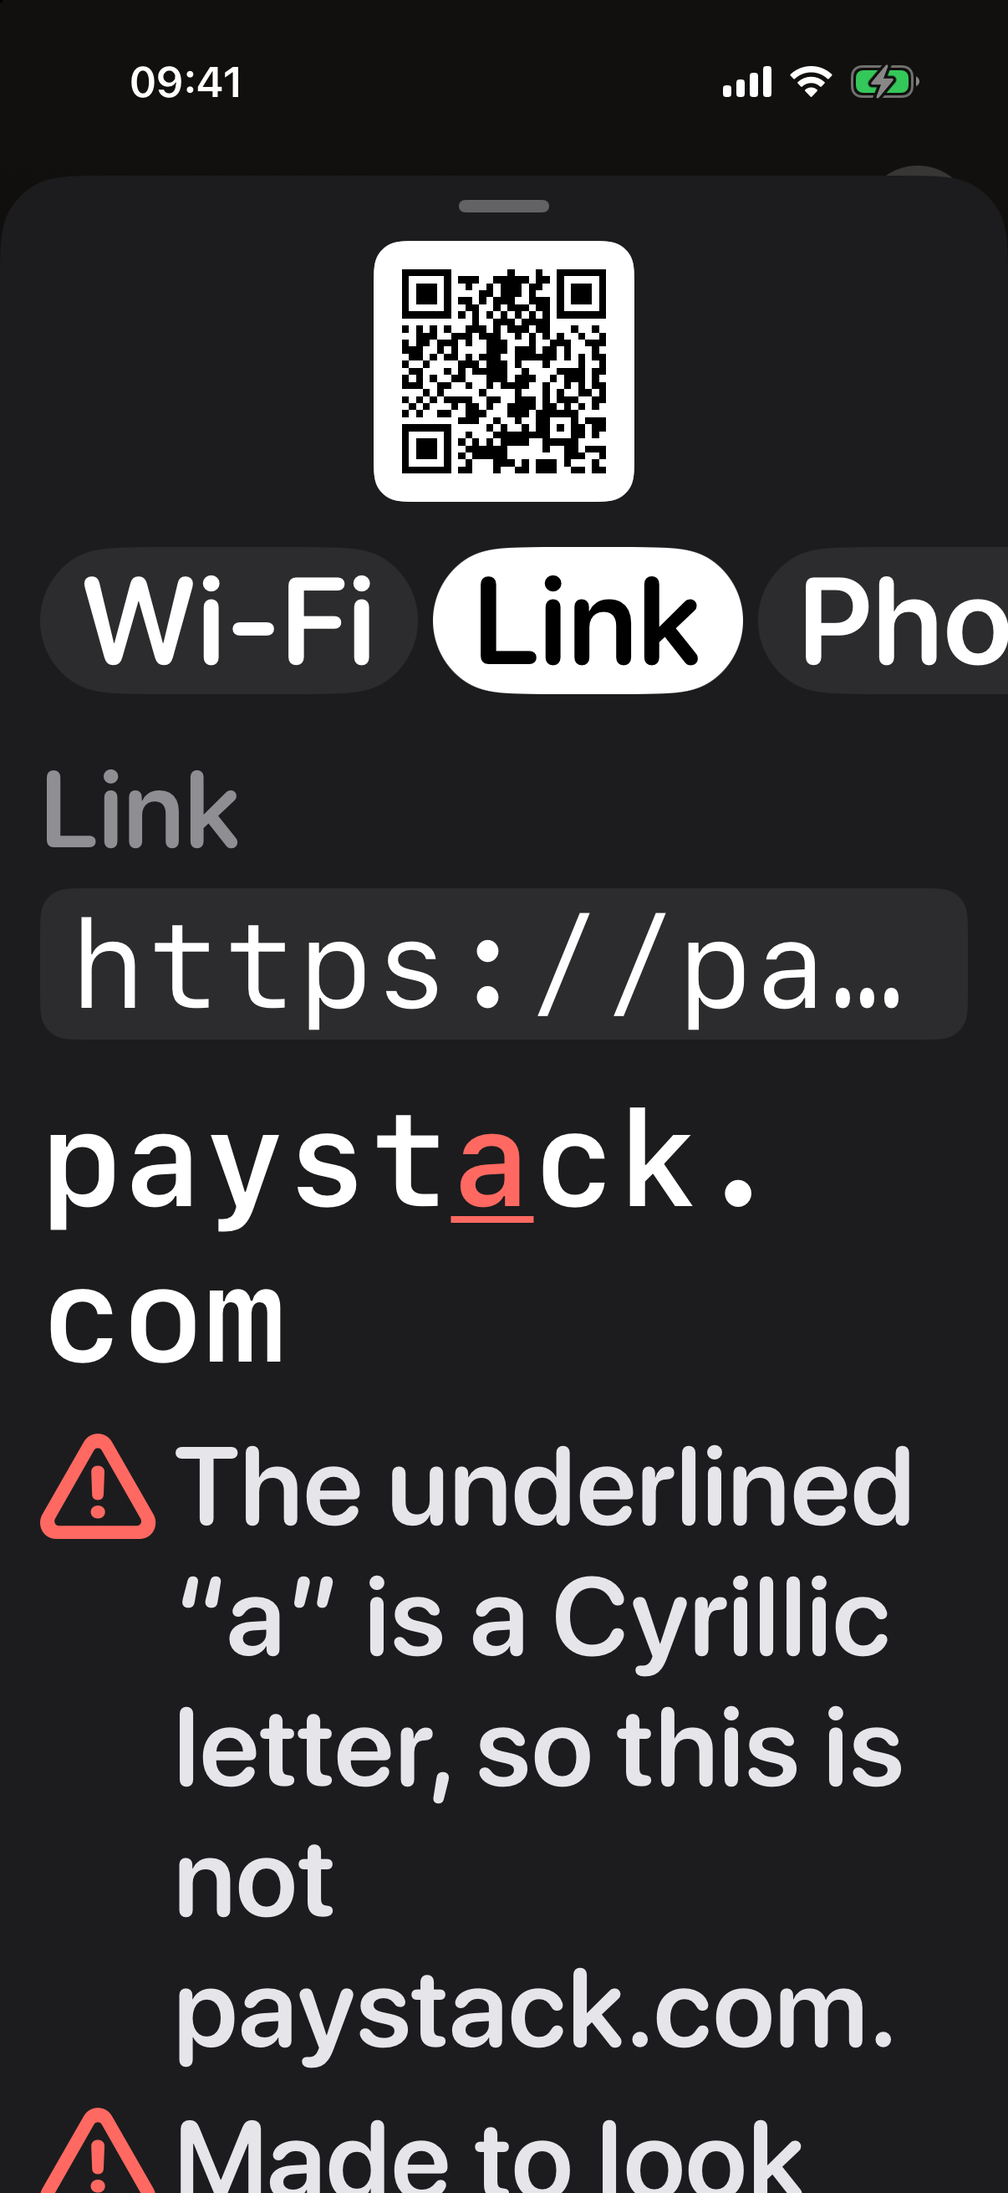
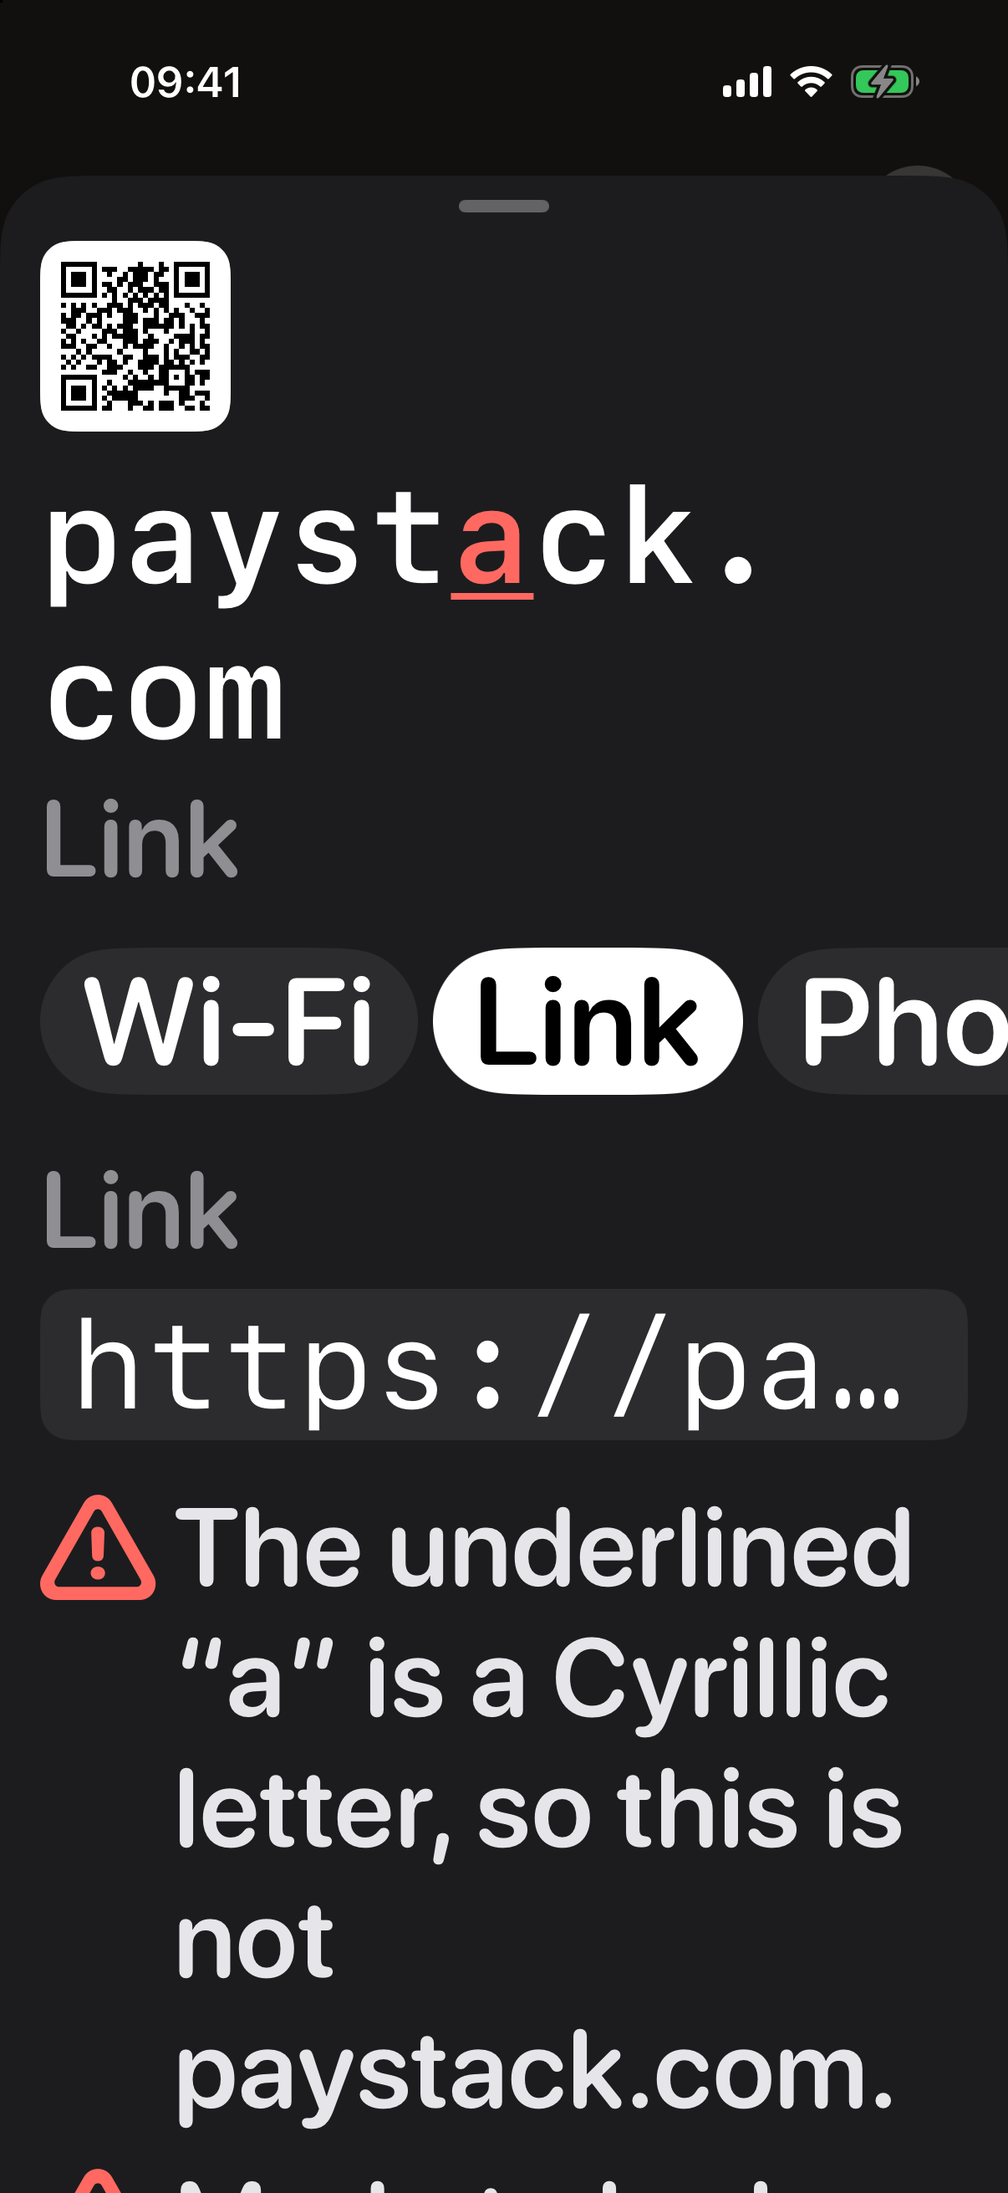
Tidy Make and History, and wrap domains at dots everywhere
History loses the + next to Done. With no codes kept, My codes already
has a Make a code button; once there are some, Make on the scanner is
the way in.

A pass over the Make screens to take out what reads as generic and make
them sit with the scan drawer:

- The Make drawer's header is laid out like a scan's: what you're making
  on the left (the network, the site or "New code") with its kind under
  it, and the live code where a scan has its Share button. It used to be
  a code centred on its own above everything. At the accessibility sizes
  the code goes above the name, as in My codes.
- A risky link's site, with the red underline, is now that header,
  instead of a second copy of the name above the warnings.
- My codes' empty state drops its icon and the step-by-step sentence the
  button already says. It's a heading, one line and Make a code.
- The full-screen code drops "Brightness turned up while this is open";
  the line only speaks after a save now, and keeps its space so the
  buttons don't jump.

Domains wrap after a dot, not mid-word, in the result drawer's title,
History, the photo list, My codes and Make. When one part is longer than
a whole line it still has to break inside, but now without a hyphen that
reads as part of the address ("kolalogis-tics.test"). VoiceOver gets the
plain name. The lookalike underline is unchanged, and a test checks it
survives the breaks.

Screenshots are retaken, with a scanned lookalike added at AX5.

diff --git a/Lensir/Make/MakeDrawer.swift b/Lensir/Make/MakeDrawer.swift
@@ -2,8 +2,9 @@
 //  MakeDrawer.swift
 //  Lensir
 //
-//  Make a code, in the same drawer a scan opens in. The code sits at the
-//  top and redraws as you type. Under it: a chip for each kind, the form
+//  Make a code, in the same drawer a scan opens in. The header is laid out
+//  like a scan's: the name on the left, the code on the right, redrawing
+//  as you type. Under it: a chip for each kind, the form
 //  for that kind, and two buttons, Show code (full screen, bright, to
 //  share or save) and Keep (into My codes). A link you make goes through
 //  the same checks as a link you scan, and a risky one asks before it's
@@ -33,6 +34,7 @@ struct MakeDrawer: View {
     /// Goes up on every keep, for its tick.
     @State private var keepCount = 0
     @AccessibilityFocusState private var previewFocused: Bool
+    @Environment(\.dynamicTypeSize) private var dynamicTypeSize
 
     private var made: Result<String, CodeProblem> { CodeMaker.make(draft) }
     private var payload: String? { try? made.get() }
@@ -47,9 +49,34 @@ struct MakeDrawer: View {
     var body: some View {
         DrawerSurface(drawer: drawer, haptics: haptics, bottomInset: bottomInset, maxHeight: maxHeight,
                       expands: false, onClose: onClose) {
-            CodePreview(image: code, label: previewLabel)
-                .frame(maxWidth: .infinity)
-                .accessibilityFocused($previewFocused)
+            // Laid out like a scan's drawer: what it is on the left, the
+            // code where the scan's Share button sits.
+            // At the accessibility sizes the code goes above the name, so the
+            // name gets the whole width, as in My codes.
+            let layout = dynamicTypeSize.isAccessibilitySize
+                ? AnyLayout(VStackLayout(alignment: .leading, spacing: 10)) : AnyLayout(HStackLayout(alignment: .center, spacing: 12))
+            layout {
+                if dynamicTypeSize.isAccessibilitySize {
+                    CodePreview(image: code, label: previewLabel)
+                        .accessibilityFocused($previewFocused)
+                }
+                VStack(alignment: .leading, spacing: 1) {
+                    headerTitle
+                        .foregroundStyle(.white)
+                        .lineLimit(3)
+                        .fixedSize(horizontal: false, vertical: true)
+                    Text(draft.kind.title)
+                        .font(Typeface.kindLabel)
+                        .foregroundStyle(Palette.secondaryText)
+                }
+                .frame(maxWidth: .infinity, alignment: .leading)
+                // The code's own label says all of this.
+                .accessibilityHidden(true)
+                if !dynamicTypeSize.isAccessibilitySize {
+                    CodePreview(image: code, label: previewLabel)
+                        .accessibilityFocused($previewFocused)
+                }
+            }
         } content: {
             MakeForm(draft: $draft, problem: problem, report: shownReport, canMake: code != nil, isKept: isKept,
                      onShow: { attempt(.show) }, onKeep: { attempt(.keep) })
@@ -76,6 +103,20 @@ struct MakeDrawer: View {
         } message: { _ in
             Text(CodeMaker.safety(for: draft)?.findings.first?.message ?? "")
         }
+    }
+
+    /// What the code will be called once it's kept, as it's typed.
+    private var headerTitle: Text {
+        guard let payload, code != nil else { return Text("New code").font(Typeface.title) }
+        // A link's site, with any lookalike letter underlined in red, as a
+        // scanned one's title is.
+        if let report = shownReport, let title = AddressText.title(report) {
+            return Text(title).font(Typeface.monoTitle).typesettingLanguage(AddressText.noHyphens)
+        }
+        let name = CodeMaker.defaultName(for: draft)
+        return CodeMaker.display(raw: payload).monospaced
+            ? Text(AddressText.breakingAtDots(name)).font(Typeface.monoTitle).typesettingLanguage(AddressText.noHyphens)
+            : Text(name).font(Typeface.title)
     }
 
     private var previewLabel: String {
@@ -147,7 +188,7 @@ struct ShownCode: Identifiable, Equatable {
 struct CodePreview: View {
     var image: CGImage?
     var label: String
-    var side: CGFloat = 104
+    var side: CGFloat = 76
     @ScaledMetric(relativeTo: .title) private var placeholderIcon: CGFloat = 34
 
     var body: some View {
@@ -422,14 +463,9 @@ private struct MakeForm: View {
             if report.isSafe {
                 CheckLine(systemName: "checkmark", color: Palette.safe, text: report.safeSummary, textColor: Palette.checkText)
             } else {
+                // The header above shows the site with the swapped letters
+                // underlined, so "the underlined а" points at something.
                 VStack(alignment: .leading, spacing: 8) {
-                    // The site as it really reads, with the swapped letters
-                    // underlined, so "the underlined а" points at something.
-                    if !report.highlights.isEmpty, let title = AddressText.title(report, breaksAtDots: true) {
-                        Text(title)
-                            .font(Typeface.monoTitle)
-                            .padding(.bottom, 2)
-                    }
                     ForEach(Array(report.findings.enumerated()), id: \.offset) { _, finding in
                         CheckLine(systemName: "exclamationmark.triangle", color: Palette.warning, text: finding.message,
                                   textColor: Palette.warningText)

diff --git a/Lensir/History/HistoryView.swift b/Lensir/History/HistoryView.swift
@@ -40,13 +40,6 @@ struct HistoryView: View {
                         }
                         .accessibilityLabel("Settings")
                     }
-                    ToolbarItem(placement: .topBarTrailing) {
-                        Button(action: onMake) {
-                            Image(systemName: "plus")
-                        }
-                        .accessibilityLabel("Make a code")
-                        .accessibilityIdentifier("history-make")
-                    }
                     ToolbarItem(placement: .confirmationAction) {
                         Button("Done") { dismiss() }
                     }
@@ -171,11 +164,14 @@ struct MadeCodeRow: View {
             .frame(width: min(thumbnail, 72), height: min(thumbnail, 72))
             .accessibilityHidden(true)
             VStack(alignment: .leading, spacing: 2) {
-                Text(code.name)
+                // The breaks are for the eye; VoiceOver gets the plain name.
+                Text(display.monospaced ? AddressText.breakingAtDots(code.name) : code.name)
+                    .accessibilityLabel(code.name)
                     .font(display.monospaced ? Typeface.monoTitle : Typeface.title)
                     .foregroundStyle(.white)
                     .lineLimit(dynamicTypeSize.isAccessibilitySize ? nil : 1)
                     .truncationMode(.middle)
+                    .typesettingLanguage(AddressText.noHyphens)
                 Text(MyCodesLogic.subtitle(raw: code.raw, date: code.date))
                     .font(Typeface.kindLabel)
                     .foregroundStyle(Palette.secondaryText)
@@ -189,23 +185,17 @@ struct MadeCodeRow: View {
     }
 }
 
-/// My codes before there are any: what it's for, and how to make one.
+/// My codes before there are any: what it's for, and the way in.
 struct MyCodesEmpty: View {
     var onMake: () -> Void
-    @ScaledMetric(relativeTo: .title2) private var icon: CGFloat = 26
 
     var body: some View {
-        VStack(alignment: .leading, spacing: 8) {
-            Image(systemName: "qrcode")
-                .font(.system(size: icon, weight: .regular))
-                .foregroundStyle(Palette.secondaryText)
-                .padding(.bottom, 4)
-                .accessibilityHidden(true)
+        VStack(alignment: .leading, spacing: 4) {
             Text("Keep the codes you show often")
                 .font(Typeface.title)
                 .foregroundStyle(.white)
                 .accessibilityAddTraits(.isHeader)
-            Text("Your Wi-Fi for guests, your shop's link, your number. Tap Make on the scanner, fill it in, then Keep. It's ready to show again in one tap.")
+            Text("Your Wi-Fi for guests, your shop's link, your number, one tap away.")
                 .font(Typeface.body)
                 .foregroundStyle(Palette.checkText)
                 .fixedSize(horizontal: false, vertical: true)
@@ -213,7 +203,7 @@ struct MyCodesEmpty: View {
                 Text("Make a code").primaryButtonStyle()
             }
             .buttonStyle(PressableStyle())
-            .padding(.top, 8)
+            .padding(.top, 12)
             .accessibilityIdentifier("my-codes-make")
         }
         .padding(.vertical, 10)
@@ -242,6 +232,7 @@ struct HistoryRow: View {
                     .foregroundStyle(.white)
                     .lineLimit(dynamicTypeSize.isAccessibilitySize ? nil : 1)
                     .truncationMode(.middle)
+                    .typesettingLanguage(AddressText.noHyphens)
                 Text("\(summary.kindLabel) · \(record.date.formatted(date: .omitted, time: .shortened))")
                     .font(Typeface.kindLabel)
                     .foregroundStyle(Palette.secondaryText)

diff --git a/Lensir/Result/AddressText.swift b/Lensir/Result/AddressText.swift
@@ -29,10 +29,10 @@ enum AddressText {
         return text
     }
 
-    /// The site's name for the sheet's title, with the same red underlines.
-    /// `breaksAtDots` lets a long name wrap after a dot rather than be
-    /// hyphenated, which would look like part of the address.
-    static func title(_ report: SafetyReport, breaksAtDots: Bool = false) -> AttributedString? {
+    /// The site's name for a title, with the same red underlines. It wraps
+    /// after a dot rather than mid-word or hyphenated, which would look like
+    /// part of the address: "paystack." then "com", never "pay-" "stack".
+    static func title(_ report: SafetyReport, breaksAtDots: Bool = true) -> AttributedString? {
         guard let address = report.address, address.hasAuthority else { return nil }
         let offset = address.shortHostOffset
         let ranges = report.highlights.compactMap { range -> Range<Int>? in
@@ -63,6 +63,22 @@ enum AddressText {
         var result = AttributedString(text)
         result.foregroundColor = Palette.secondaryText
         result.font = Typeface.address
+        return result
+    }
+
+    /// Typesetting with no language: a part too long for its line breaks
+    /// where it must, without a hyphen that would read as part of the
+    /// address ("kolalogis-tics.test").
+    static let noHyphens = Locale.Language(identifier: "zxx")
+
+    /// A zero-width space after each dot, so a name like a domain wraps
+    /// between its parts instead of mid-word.
+    static func breakingAtDots(_ text: String) -> String {
+        var result = ""
+        for character in text {
+            result.append(character)
+            if character == "." { result.append("\u{200B}") }
+        }
         return result
     }
 

diff --git a/LensirTests/ReviewFixesTests.swift b/LensirTests/ReviewFixesTests.swift
@@ -9,6 +9,7 @@
 
 import CoreGraphics
 import Testing
+import SwiftUI
 import UIKit
 @testable import Lensir
 
@@ -85,5 +86,21 @@ struct StillCreditTests {
             #expect(credit == 0 || scene == 0, "credit \(credit) and buttons \(scene) overlap at \(t) s")
         }
         #expect(SplashLogic.stillCreditOpacity(at: still.hold - SplashLogic.stillCreditFade, in: still) == 1)
+    }
+}
+
+@Suite("Domains wrap at dots")
+struct DomainBreakTests {
+    @Test func aBreakGoesAfterEachDot() {
+        #expect(AddressText.breakingAtDots("paystack.com") == "paystack.\u{200B}com")
+        #expect(AddressText.breakingAtDots("a.b.kolapay.ng") == "a.\u{200B}b.\u{200B}kolapay.\u{200B}ng")
+        #expect(AddressText.breakingAtDots("Ada Okafor") == "Ada Okafor")
+    }
+
+    @Test func titlesBreakAtDotsAndKeepTheUnderline() throws {
+        let title = try #require(AddressText.title(LinkSafety.check("https://payst\u{0430}ck.com/pay")))
+        #expect(String(title.characters) == "payst\u{0430}ck.\u{200B}com")
+        let underlined = title.runs.filter { $0.swiftUI.underlineStyle != nil }.map { String(title[$0.range].characters) }
+        #expect(underlined == ["\u{0430}"])
     }
 }

diff --git a/Lensir/Result/ResultDrawer.swift b/Lensir/Result/ResultDrawer.swift
@@ -102,9 +102,14 @@ struct ResultDrawer: View {
     /// shown: the sheet, the photo list and History.
     static func title(_ summary: ResultSummary) -> Text {
         if let report = summary.safety, let title = AddressText.title(report) {
-            return Text(title).font(Typeface.monoTitle)
+            return Text(title).font(Typeface.monoTitle).typesettingLanguage(AddressText.noHyphens)
+                .accessibilityLabel(Text(summary.title))
         }
-        return Text(summary.title).font(summary.titleIsMonospaced ? Typeface.monoTitle : Typeface.title)
+        if summary.titleIsMonospaced {
+            return Text(AddressText.breakingAtDots(summary.title)).font(Typeface.monoTitle).typesettingLanguage(AddressText.noHyphens)
+                .accessibilityLabel(Text(summary.title))
+        }
+        return Text(summary.title).font(Typeface.title)
     }
 
     // MARK: - Details

diff --git a/Lensir/Make/FullScreenCode.swift b/Lensir/Make/FullScreenCode.swift
@@ -125,9 +125,12 @@ struct FullScreenCode: View {
 
     private var actions: some View {
         VStack(spacing: 14) {
-            Text(saveMessage ?? "Brightness turned up while this is open")
+            // Only says something after a save; the line is kept so the
+            // buttons don't jump when it does.
+            Text(saveMessage ?? " ")
                 .font(Typeface.kindLabel)
                 .foregroundStyle(Self.quiet)
+                .accessibilityHidden(saveMessage == nil)
                 .multilineTextAlignment(.center)
                 .contentTransition(.opacity)
             let layout = dynamicTypeSize.isAccessibilitySize

diff --git a/README.md b/README.md
@@ -36,7 +36,7 @@ When it opens, the four brackets from the icon hunt for focus, snap in tight ont
 
 | A Wi-Fi code | A link | A lookalike link |
 |---|---|---|
-| ![The Make drawer over the scanner: the Kola Logistics Wi-Fi code at the top, chips for Wi-Fi, Link, Phone, Contact and Text, then Network, Password and Security, Show code and Keep in My codes](docs/screenshots/make-wifi.png) | ![The Make drawer on Link: kolalogistics.test/track typed in, the code above it, and "Secure · nothing odd in the address"](docs/screenshots/make-link.png) | ![A link with a Cyrillic "а" typed in: paystаck.com with the letter underlined in red and two warnings under it](docs/screenshots/make-risky.png) |
+| ![The Make drawer over the scanner: Kola Logistics and Wi-Fi on the left with the code beside them, chips for Wi-Fi, Link, Phone, Contact and Text, then Network, Password and Security, Show code and Keep in My codes](docs/screenshots/make-wifi.png) | ![The Make drawer on Link: kolalogistics.test/track typed in, the code beside the site's name, and "Secure · nothing odd in the address"](docs/screenshots/make-link.png) | ![A link with a Cyrillic "а" typed in: paystаck.com at the top with the letter underlined in red, and two warnings under the field](docs/screenshots/make-risky.png) |
 
 | Show code | My codes | My codes, empty |
 |---|---|---|
@@ -44,9 +44,9 @@ When it opens, the four brackets from the icon hunt for focus, snap in tight ont
 
 At the largest text size (AX5):
 
-| Make, Wi-Fi | Make, a lookalike | Show code | My codes | Nothing yet |
-|---|---|---|---|---|
-| ![The Make drawer at AX5, scrolled to the top](docs/screenshots/ax5/make-wifi.png) | ![The lookalike warning at AX5, the site name wrapping at the dot](docs/screenshots/ax5/make-risky.png) | ![The full-screen code at AX5](docs/screenshots/ax5/make-show.png) | ![My codes at AX5, each code above its name](docs/screenshots/ax5/history.png) | ![My codes and History both empty at AX5](docs/screenshots/ax5/my-codes-empty.png) |
+| Make, Wi-Fi | Make, a lookalike | Show code | My codes | Nothing yet | A scanned lookalike |
+|---|---|---|---|---|---|
+| ![The Make drawer at AX5, scrolled to the top](docs/screenshots/ax5/make-wifi.png) | ![The lookalike warning at AX5, the code above the site name, which wraps at the dot](docs/screenshots/ax5/make-risky.png) | ![The full-screen code at AX5](docs/screenshots/ax5/make-show.png) | ![My codes at AX5, each code above its name](docs/screenshots/ax5/history.png) | ![My codes and History both empty at AX5](docs/screenshots/ax5/my-codes-empty.png) | ![A scanned lookalike at AX5: paystаck.com with the red underline, then the full address and the warnings](docs/screenshots/ax5/lookalike.png) |
 
 The Simulator has no camera, so these use the launch arguments below. They draw a stand-in camera with a real QR code on a printed card. `scripts/screenshots.sh` takes all of them.
 
@@ -68,9 +68,9 @@ The Simulator has no camera, so these use the launch arguments below. They draw 
   | Text or a product barcode | Copy text | |
 
 - Every code you open goes into History, newest first and grouped by day. Swipe a row to delete it, or clear the lot. Tapping a row opens it again.
-- Make, the white button between the photo and History buttons, raises the same drawer to make a code. Pick Wi-Fi, Link, Phone, Contact or Text and fill it in. The code at the top redraws as you type. A link you make gets the same checks as one you scan, and if it looks risky, Show code and Keep both ask before going ahead. Typing `kolalogistics.test` is enough; Lensir adds `https://`.
+- Make, the white button between the photo and History buttons, raises the same drawer to make a code. Pick Wi-Fi, Link, Phone, Contact or Text and fill it in. The drawer's header reads like a scan's: what you're making on the left and its code on the right, redrawing as you type. A link you make gets the same checks as one you scan, and if it looks risky, Show code and Keep both ask before going ahead. Typing `kolalogistics.test` is enough; Lensir adds `https://`.
 - Show code puts the code full screen on white and turns the brightness all the way up until you close it. The phone won't lock while it's showing. Share sends the picture. Save to Photos asks only to add to your library, never to read it.
-- Keep puts the code in My codes, at the top of History. Tap one to show it again, swipe it to delete or rename it. Clearing History leaves My codes alone. The + in History makes a new one.
+- Keep puts the code in My codes, at the top of History. Tap one to show it again, swipe it to delete or rename it. Clearing History leaves My codes alone. With none kept yet, My codes has a Make a code button; otherwise Make on the scanner is the way in.
 - The photo button reads codes from a picture in your library. If there are several, you pick one from a list.
 - A torch button for dark rooms, and a Haptics switch in Settings (behind History).
 - Addresses, network names and numbers are set in SF Mono. In a monospaced face a swapped letter can't hide: l, 1 and I look different, and so do O and 0.
